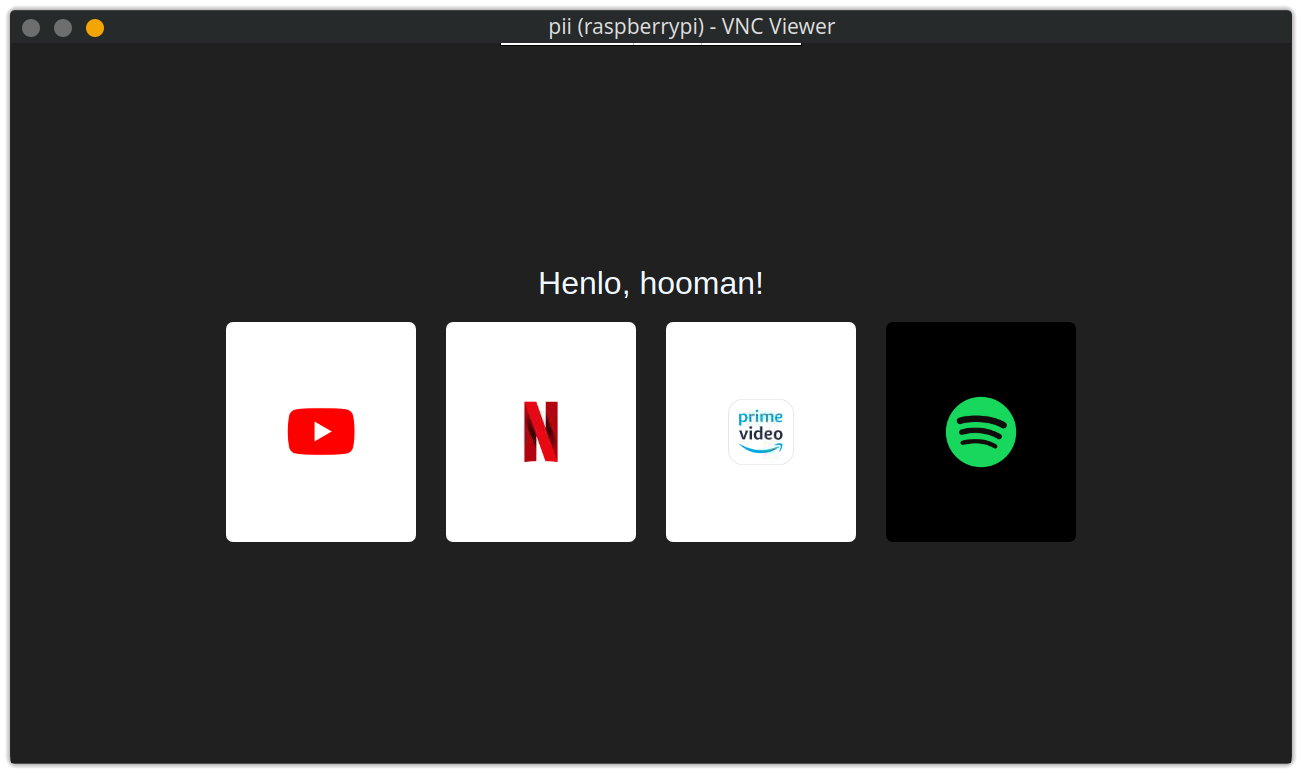
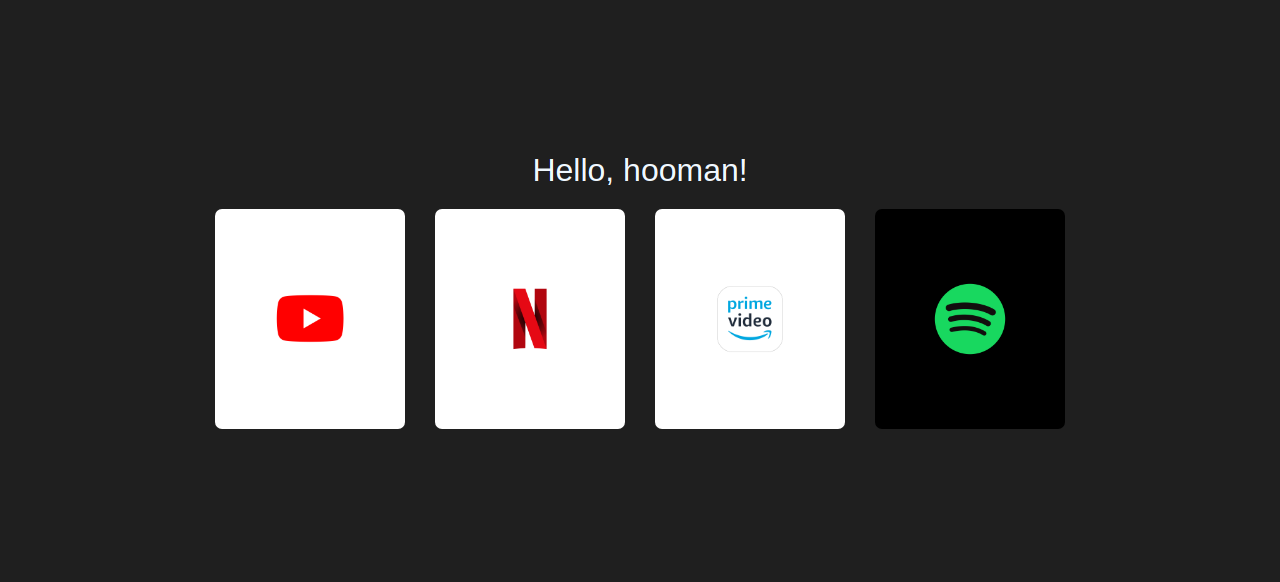
First gud commit

diff --git a/index.html b/index.html
@@ -1,0 +1,103 @@
+<!DOCTYPE html>
+<html lang="en">
+	<head>
+		<meta charset="UTF-8">
+		<meta name="viewport" content="width=device-width, initial-scale=1.0">
+		<title>Box-links</title>
+	</head>
+	<body>
+		<div class="page-wrapper">
+			<div class="middle-box">
+				<div class="boxcontent">
+					<h1>Hello, hooman!</h1>
+					<div class="cards">
+						<div class="card card1" onclick="window.location = 'https://www.youtube.com'"></div>
+						<div class="card card2" onclick="window.location = 'https://www.netflix.com'"></div>
+						<div class="card card3" onclick="window.location = 'https://www.primevideo.com'"></div>
+						<div class="card card4" onclick="window.location = 'https://open.spotify.com'"></div>
+					</div>
+				</div>
+			</div>
+		</div>
+	</body>
+	<style>
+body{
+	margin: 0;
+	padding: 0;
+}
+    .page-wrapper{
+	    margin: 0;
+	    padding: 0;
+	    background-color: #1f1f1f;
+	    height: 100vh;
+	    width: 100vw;
+	    display: flex;
+	    align-items: center;
+	    justify-content: center;
+    }
+    .middle-box{
+	    "background-color: #0f0f0f;"
+
+    }
+    .boxcontent{
+	    display: flex;
+	    align-items: center;
+	    flex-direction: column;
+	    padding: 30px;
+	    padding-left:70px;
+	    padding-right:70px;
+    }
+    h1{
+	    padding: 10;
+	    margin: 0;
+	    margin-bottom:20px;
+	    font-family: sans-serif;
+	    color: #f0f8ff;
+	    font-weight: normal;
+    }
+    .cards{
+	    display: flex;
+	    justify-content: center;
+	    gap: 30px;
+    }
+    .card{
+	    display: block;
+	    border-radius:7px;
+	    height: 200px;
+	    width: 170px;
+	    padding:10px;
+    }
+    .card:hover{
+	    box-shadow: #000000 3px 3px 3px;
+	    cursor: pointer;
+	    transition: all .10s;
+    }
+    .card:active{
+	    box-shadow: #000000 4px 4px 2px;
+	    cursor: pointer;
+	    transition: all .10s;
+    }
+    .card1{
+	    background: url(imgs/youtube.png) no-repeat #ffffff;
+	    background-size: 180px;
+	    background-position: center;
+    }
+    .card2{
+	    background: url(imgs/netflix.png) no-repeat #ffffff;
+	    background-size: 80px;
+	    background-position: center;
+    }
+    .card3{
+	    background: url(imgs/primevideo.png) no-repeat #ffffff;
+	    background-size: 180px;
+	    background-position: center;
+    }
+    .card4{
+	    background: url(imgs/spotify.png) no-repeat #000000;
+	    background-size: 80px;
+	    background-position: center;
+    }
+
+
+	</style>
+</html>
